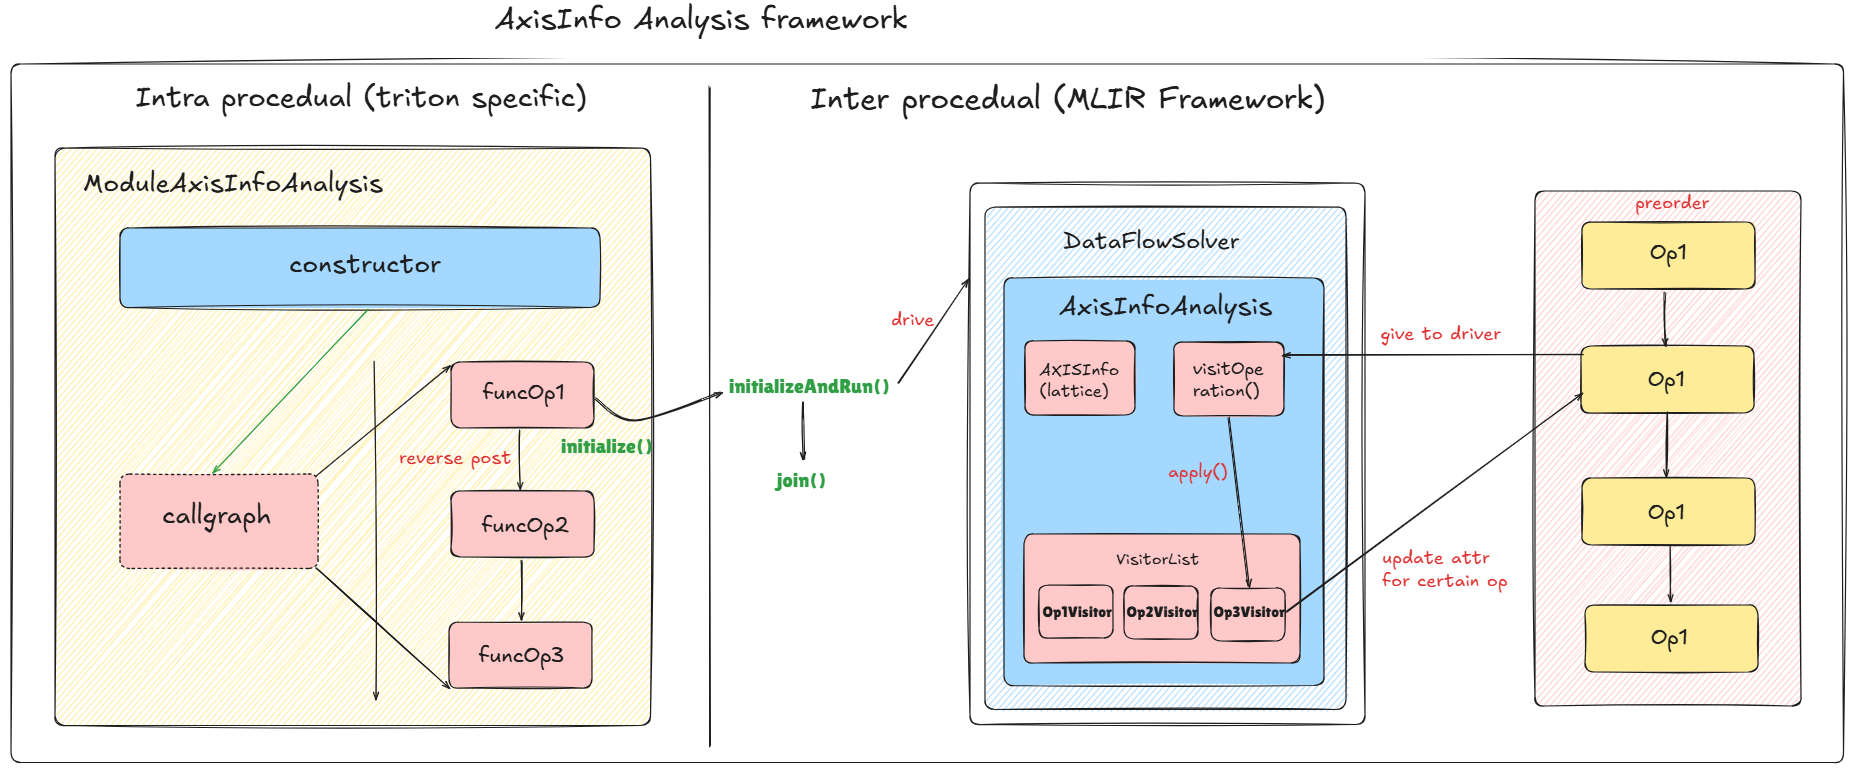
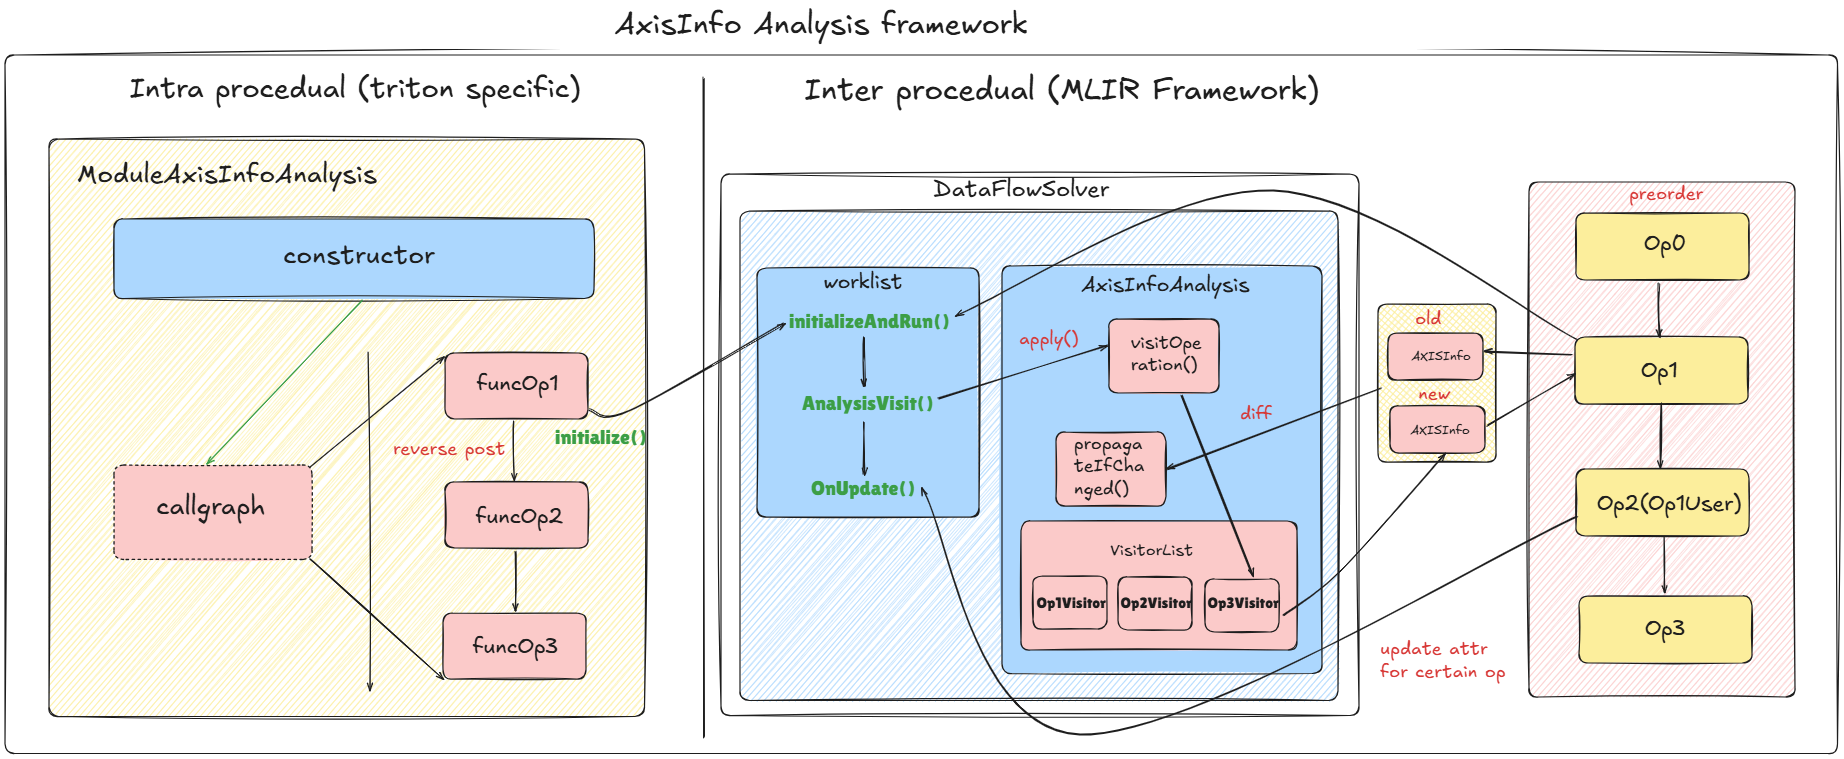
[doc] update AxisInfo analysis part

diff --git a/tutorial/doc/Triton-Deep-Dive.md b/tutorial/doc/Triton-Deep-Dive.md
@@ -176,13 +176,88 @@ In this part, triton do all critical GPU-specific optimizations, with the help f
 #### Axis Analysis
 Axis Analysis is like other standard analysis pass, gather detailed information to help guide further code transformation. This part highly refer to [OpenAI Triton: Dive into Axis and Coalesce](https://www.zhihu.com/search?type=content&q=triton%20axis%20analysis) blog. To fully understand the detailed implementation behind, we need to understand an important concept: **Dataflow Analysis** and how it is implemented in `Triton` with the help of mlir infrastructure.  
 
-Below is a Flow graph shows the whole dataflow process:  
+Below is a Flow graph shows the whole dataflow framework:  
 
 ![AxisInfo Analysis](../png/dataflow.png)
 
-> Refer to [ModuleAxisInfoAnalysis](https://github.com/triton-lang/triton/blob/main/include/triton/Analysis/AxisInfo.h#L191-L270) for detailed implementation of ModuleAxisInfoAnalysis, pay attention to **its class constructure**, [**initialize()**](https://github.com/triton-lang/triton/blob/main/lib/Analysis/AxisInfo.cpp#L1311-L1348). Refer to [AxisInfoAnalysis](https://github.com/triton-lang/triton/blob/main/lib/Analysis/AxisInfo.cpp#L137-L181) for AxisInfoAnalysis, where [**visitOperation()**](https://github.com/triton-lang/triton/blob/main/lib/Analysis/AxisInfo.cpp#L1040-L1075) is essential. Also refer to []() for AxisInfo to see lattice define in dataflow analysis.
+> Refer to [ModuleAxisInfoAnalysis](https://github.com/triton-lang/triton/blob/main/include/triton/Analysis/AxisInfo.h#L191-L270) for detailed implementation of intraprocedual info propagation, pay attention to [**its class construction**]() and [**initialize()**](https://github.com/triton-lang/triton/blob/main/lib/Analysis/AxisInfo.cpp#L1311-L1348). Refer to [AxisInfoAnalysis](https://github.com/triton-lang/triton/blob/main/lib/Analysis/AxisInfo.cpp#L137-L181) for AxisInfoAnalysis, where [**visitOperation()**](https://github.com/triton-lang/triton/blob/main/lib/Analysis/AxisInfo.cpp#L1040-L1075) is essential. Also refer to [AxisInfo.h](https://github.com/triton-lang/triton/blob/main/include/triton/Analysis/AxisInfo.h#L19-L150) for AxisInfo to see lattice define in dataflow analysis. To have a glance of Dataflow framework in MLIR, refer to [Dataflow In MLIR](https://zhuanlan.zhihu.com/p/1895569118196904165) and [The Misssing Guide of Dataflow Analysis in MLIR](https://lowlevelbits.com/p/the-missing-guide-to-dataflow-analysis).   
 
-Three new concepts are introduced in this phase:  
+After clarifying the whole AxisInfo analysis process, let's focus on a certain op (pick `triton::AddPtrOp` here) to show how a certain op's AxisInfo is updated. Below is the source code:  
+
+```cpp
+template <typename OpTy>
+class AddSubOpAxisInfoVisitor final : public BinaryOpVisitorImpl<OpTy> {
+public:
+  using BinaryOpVisitorImpl<OpTy>::BinaryOpVisitorImpl;
+
+private:
+  int64_t getContiguity(OpTy op, const AxisInfo &lhs, const AxisInfo &rhs,
+                        int dim) override {
+    // Contiguity assumes an increasing sequence. So for SubIOp contiguous
+    // RHS doesn't produce a contiguous result.
+    if (isa<arith::SubIOp>(op))
+      return gcd(lhs.getContiguity(dim), rhs.getConstancy(dim));
+
+    return std::max(gcd(lhs.getConstancy(dim), rhs.getContiguity(dim)),
+                    gcd(lhs.getContiguity(dim), rhs.getConstancy(dim)));
+  }
+
+  int64_t getDivisibility(OpTy op, const AxisInfo &lhs, const AxisInfo &rhs,
+                          int dim) override {
+    // lhs = k * d_lhs = k * k' * gcd(d_lhs, d_rhs)
+    // rhs = p * d_rhs = p * p' * gcd(d_lhs, d_rhs)
+    // lhs + rhs = k * d_lhs + p * d_rhs = (k * k' + p * p') * gcd(d_lhs, d_rhs)
+    auto rhsDivisibility = rhs.getDivisibility(dim);
+    if constexpr (std::is_same_v<OpTy, triton::AddPtrOp>) {
+      //  %ptr = addptr %lhs, %rhs
+      // is equivalent to
+      //  %0 = mul %rhs, %elemSize
+      //  %ptr = add %lhs, %0
+      // The result will still be contiguous in terms of elements but not bytes
+      // For example:
+      // addptr [16] : !ptr<i32>, [0, 1, 2, 3] : i32 -> !ptr<i32>
+      // returns:
+      // [16, 20, 24, 28] : !ptr<i32>
+      // with element locations:
+      // [4, 5, 6, 7]
+      // It is "strided contiguous" with a divisibility of 16 bytes
+      auto rank = lhs.getRank();
+      auto elemSize = std::max<int64_t>(
+          1, triton::getPointeeBitWidth(op.getPtr().getType()) / 8);
+      rhsDivisibility = multiplyDivisor(rhs.getDivisibility(dim), elemSize);
+    }
+    return gcd(lhs.getDivisibility(dim), rhsDivisibility);
+  }
+
+  int64_t getConstancy(OpTy op, const AxisInfo &lhs, const AxisInfo &rhs,
+                       int dim) override {
+    return gcd(lhs.getConstancy(dim), rhs.getConstancy(dim));
+  }
+
+  std::optional<int64_t> getConstantValue(OpTy op, const AxisInfo &lhs,
+                                          const AxisInfo &rhs) override {
+    if (lhs.getConstantValue().has_value() &&
+        rhs.getConstantValue().has_value()) {
+      if constexpr (std::is_same_v<OpTy, arith::AddIOp>) {
+        return {lhs.getConstantValue().value() +
+                rhs.getConstantValue().value()};
+      } else if constexpr (std::is_same_v<OpTy, arith::SubIOp>) {
+        return {lhs.getConstantValue().value() -
+                rhs.getConstantValue().value()};
+      } else if constexpr (std::is_same_v<OpTy, triton::AddPtrOp>) {
+        auto rank = lhs.getRank();
+        auto elemSize = std::max<int64_t>(
+            1, triton::getPointeeBitWidth(op.getPtr().getType()) / 8);
+        auto rhsValue = rhs.getConstantValue().value() * elemSize;
+        return {lhs.getConstantValue().value() + rhsValue};
+      }
+    }
+    return {};
+  }
+};
+```
+
+AxisInfo mainly consists of three new concepts:  
 * Divisibility
 * Contiguity
 * Constancy  
